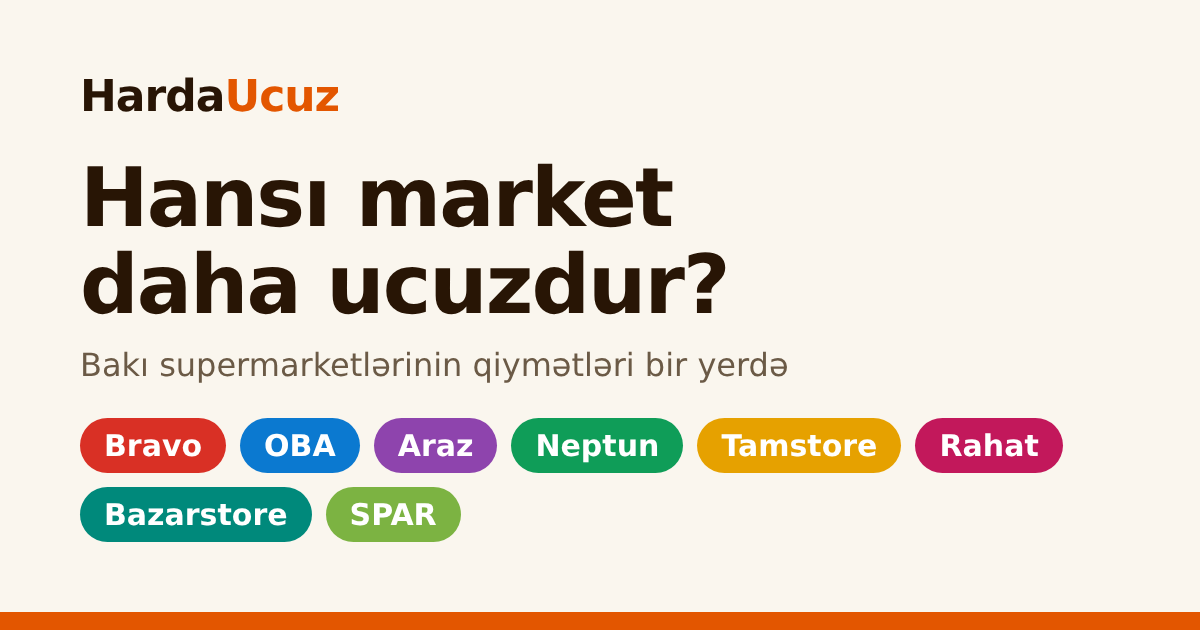
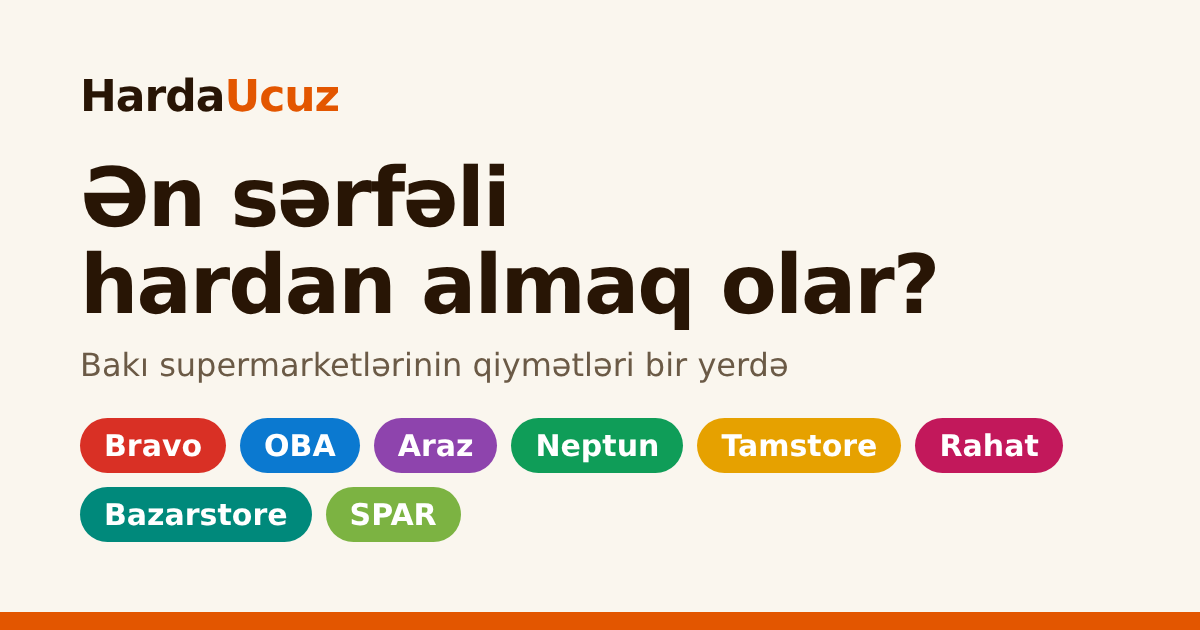
Başlıq: "Ən sərfəli hardan almaq olar?" (#40)
* Başlıq: "Bu ərzaq harda ucuzdur?"

"Hansı market daha ucuzdur?" mağazaları ümumi müqayisə edirdi; yeni başlıq məhsula yönəlir. index.html (h1, og:title) və og.png.

Claude-Session: https://claude.ai/code/session_01Rk5b58irYTJFK6QLC87yHT

* Başlıq: "Ən sərfəli hardan almaq olar?"

Claude-Session: https://claude.ai/code/session_01Rk5b58irYTJFK6QLC87yHT

---------

Changed region(s): [[0.1542, 0.3921, 0.8017, 0.5429], [0.0617, 0.2413, 0.555, 0.3619], [0.0617, 0.3921, 0.1233, 0.5127]]

diff --git a/index.html b/index.html
@@ -12,7 +12,7 @@
 <meta property="og:type" content="website">
 <meta property="og:site_name" content="Harda Ucuz">
 <meta property="og:locale" content="az_AZ">
-<meta property="og:title" content="Hansı market daha ucuzdur? — Harda Ucuz">
+<meta property="og:title" content="Ən sərfəli hardan almaq olar? — Harda Ucuz">
 <meta property="og:description" content="Bravo, OBA, Araz, Neptun, SPAR və digər Bakı supermarketlərinin qiymətlərini bir yerdə müqayisə edin.">
 <meta property="og:url" content="https://ilhamisayev16-cyber.github.io/harda-ucuz/">
 <meta property="og:image" content="https://ilhamisayev16-cyber.github.io/harda-ucuz/og.png">
@@ -225,7 +225,7 @@ details.more-f summary::-webkit-details-marker{display:none}
   </div>
 
   <section id="homeView" hidden>
-    <h1 class="hero">Hansı market daha ucuzdur?</h1>
+    <h1 class="hero">Ən sərfəli hardan almaq olar?</h1>
     <p class="sub-h">Bravo, OBA, Araz, Neptun, Tamstore, Rahat, Bazarstore və SPAR qiymətləri bir yerdə. Kateqoriya seç:</p>
     <div class="drops" id="drops" hidden></div>
     <div class="grid" id="catGrid"></div>
